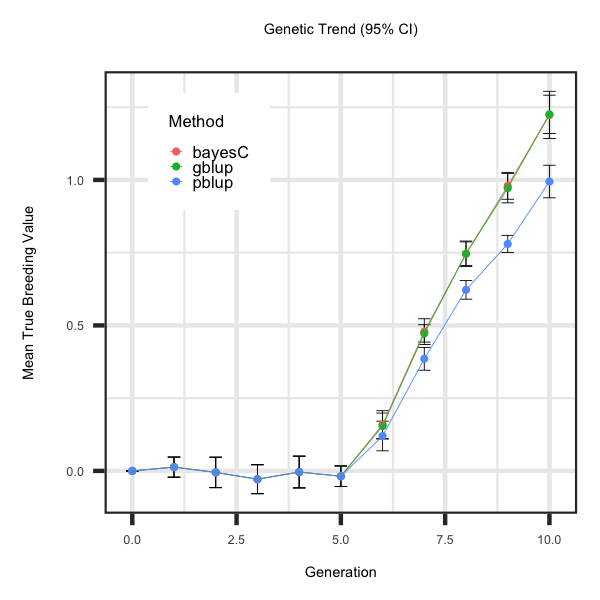
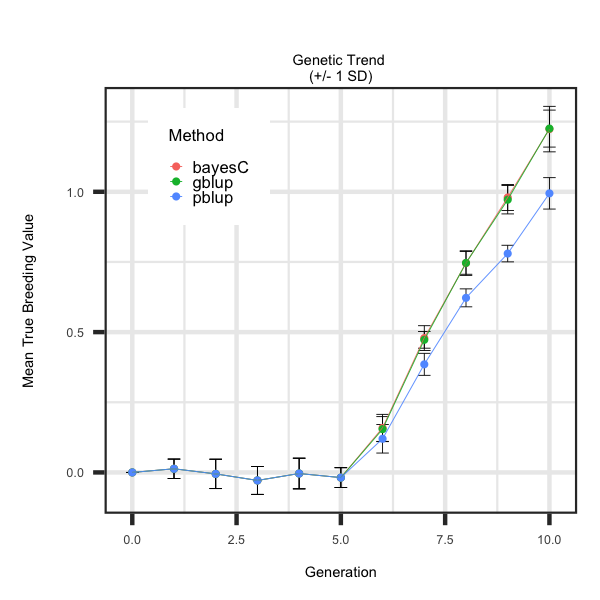
initial commit

diff --git a/_layouts/example3.html b/_layouts/example3.html
@@ -21,7 +21,7 @@
 	<div id = "textbox">
 		<div id = "text">
 	 		&emsp; The parameter file outlined below illustrates how to simulate a population where older animals are assigned a larger number of mating 
-	 		pairs compared to younger animals. This type of scenario is generated by utilizing the "PARITY_MATES_DIST" parameter with the following values 
+	 		pairs, compared to younger animals. This type of scenario is generated by utilizing the "PARITY_MATES_DIST" parameter with the following values 
 	 		"2.0 1.0". These two values are utilized to generate the distribution of mating pairs. A Beta distribution, which is parameterized by two parameters, 
 	 		is used to generate the distribution of mating pairs. A beta distribution was utilized in order to allow for a wide range of mating scenarios. For 
 	 		example, to generate a scenario where younger animals are assigned a larger number of mating pairs compared to older animals, the parameters need to 
@@ -96,7 +96,7 @@
 	
 	<div id = "textbox">
 		<div id = "text">
-			&emsp; A potential reasons for putting this into a simulation is to generate some sires with a large number of progeny while other sires have 
+			&emsp; A potential reason for putting this into a simulation is to generate some sires with a large number of progeny, while other sires have 
 			very few progeny. The sires that generate a large number of progeny would then have a large impact on the genome of future generations which may include the 
 			spread of a lethal/sublethal mutation that the sire(s) carry. <br> <br>
 			

diff --git a/_layouts/example6.html b/_layouts/example6.html
@@ -206,7 +206,7 @@
 			ggplot(plotdf, aes(x=Generation, y=Mean, colour=Method)) + <br>
 			&emsp; geom_errorbar(aes(ymin=Mean-SD, ymax=Mean+SD), colour="black", width=.4, size = 0.5, position=pd) + <br>
 			&emsp; geom_point(size=2.0) + geom_line(size=0.50) + theme_bw() + <br>
-  			&emsp; labs(title = "Genetic Trend (95% CI)", x = "Generation", y = "Mean True Breeding Value") + <br>
+  			&emsp; labs(title = "Genetic Trend \n(+/- 1 SD)", x = "Generation", y = "Mean True Breeding Value") + <br>
   			&emsp; theme(plot.title = element_text(size = 16,hjust = 0.5),axis.title = element_text(size = 12), <br>
   			&emsp; legend.position="bottom",axis.text=element_text(size=10)) <br>
 		</div>
